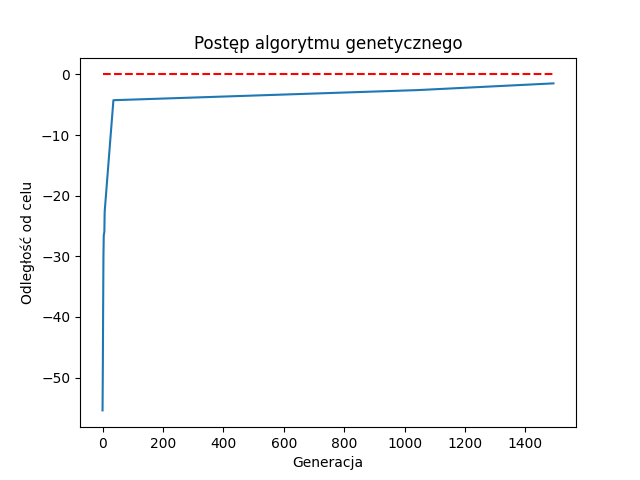
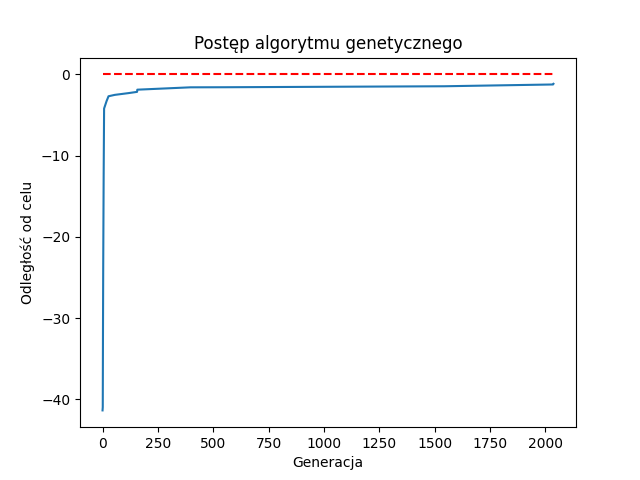
simple path finding

diff --git a/main.py b/main.py
@@ -12,7 +12,7 @@ GOAL = (49, 49)  # Punkt docelowy
 POPULATION_SIZE = 100  # Rozmiar populacji
 MAX_GENE_LENTH = 300  # Długość sekwencji komend (genomu)
 MUTATION_RATE = 0.1  # Szansa mutacji
-GENERATIONS = 20000  # Liczba generacji
+GENERATIONS = 5000  # Liczba generacji
 LEN_RATE = 0.01
 
 # Mapa - 0 to wolne miejsce, 1 to przeszkoda
